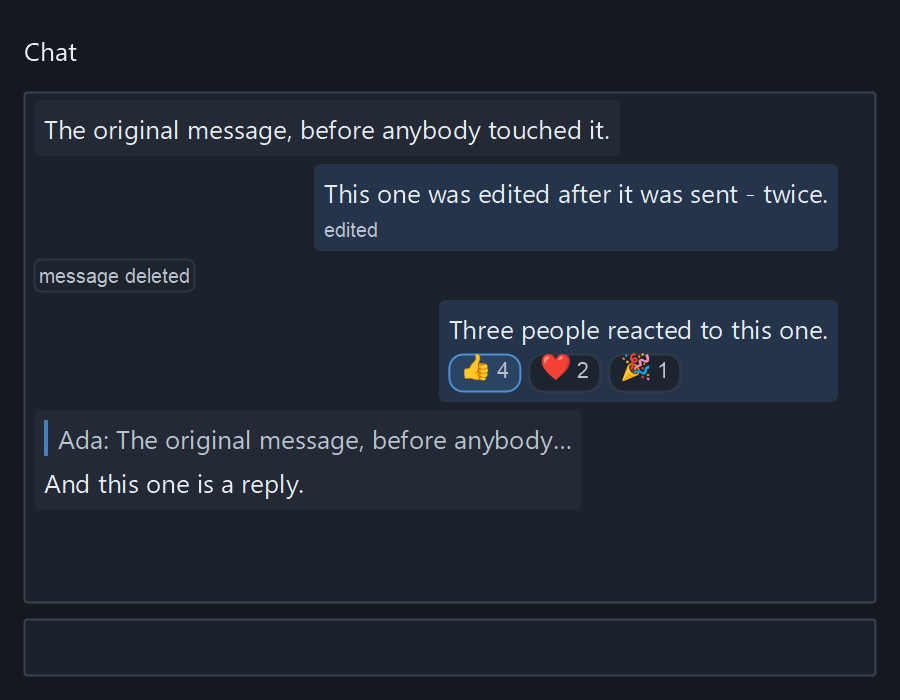
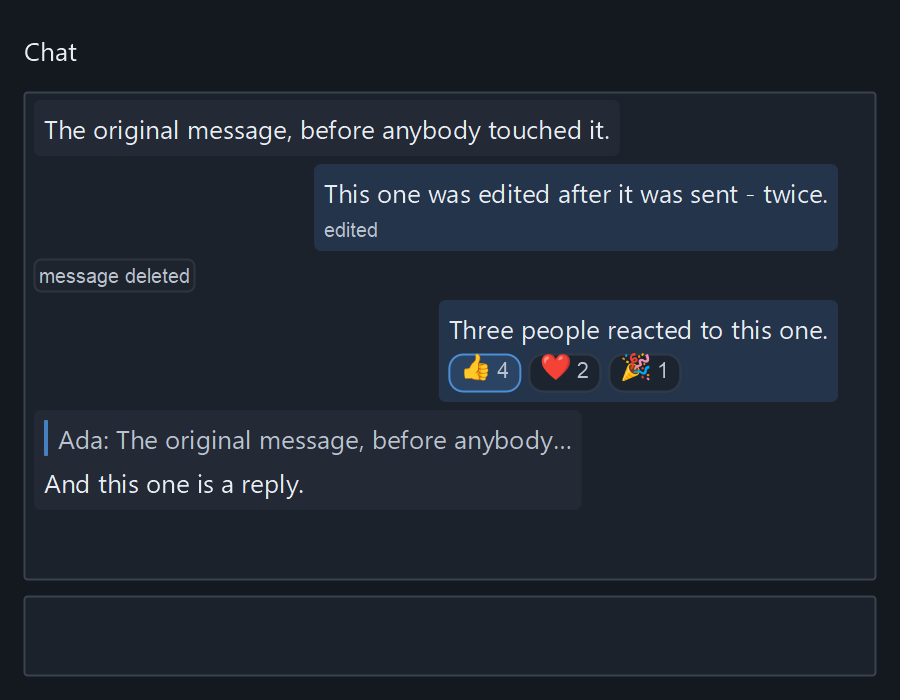
0.8.2: SW_TEXT_BOX measures the same twice, in rows it really has
- preferred_height read its floor (min_control_height) under whatever
  font the painter last selected: 70/75/80 px for one box at 2x. New
  minimum_height selects the body font first, as every control does.
- row_height answered the toy pitch (60 px at 2x) while shaped lines
  stack at the kit's line height (45 px). It now answers the new
  SW_SHAPING.line_height on the shaped path.
- build_shaped gives an empty piece (blank line, empty box) that line
  height too, so N plain lines are N rows.
- Four new SW_SHAPED_EDIT_ASSAULT tests on both paths; 335 -> 339, all
  passing. The six 2x thread evidence frames are rewritten: their empty
  composer now sits at the documented body-font floor (80 px).

Claude-Session: https://claude.ai/code/session_01QuAC6UMuFaysuxMAdN3fPW

diff --git a/docs/widgets/sw_text_box.html b/docs/widgets/sw_text_box.html
@@ -69,6 +69,7 @@ notes.set_text (<span <span class="keyword">class</span>="string">&quot;shorter&
             <h2>Shaped text (0.8.0)</h2>
             <p>When the window has shaped text enabled (<code>SW_WINDOW.enable_shaped_text</code>) and the box is not masked, the text is laid out through the shaping kit - one layout per line-break piece - and every character's edges come from the run's cluster map, through <code>SW_CLUSTER_MATH</code>. The caret after a character is its right edge in a left-to-right run and its <em>left</em> edge in a right-to-left one, so a caret walks leftward through Hebrew and a click inside it lands where the reader expects. Lines carry their own measured top, ascent and height.</p>
             <p>Where a left-to-right run meets a right-to-left one, two offsets stand at the same pixel. The rule is fixed: the boundary of the left-to-right character wins the click, and the other offset stays reachable by the arrow keys. Geometry is public for hosts and tests: <code>x_at_offset</code>, <code>line_at_offset</code>, <code>offset_at</code>, <code>line_count</code>, <code>is_rtl_at</code>, <code>is_shaped_layout</code>, <code>content_height</code>, <code>set_caret</code>, and the insets <code>Pad_x</code> / <code>Pad_y</code> that locate the text origin.</p>
+            <p>Measurement (0.8.2): <code>row_height</code> is the pitch the lines are really stacked at. On the shaped path that is the kit's <code>line_height</code>, one line of its primary face, which blank lines get too, so N plain lines are N rows. <code>minimum_height</code> is the floor, read under the body font, so <code>preferred_height</code> gives the same answer whatever was drawn before it.</p>
             <p>One deliberate change on both engines: a newline's caret now stands at the <em>start</em> of the line it opens, not the end of the line it closes.</p>
         </section>
 

diff --git a/CHANGELOG.md b/CHANGELOG.md
@@ -7,6 +7,44 @@ and this project adheres to [Semantic Versioning](https://semver.org/spec/v2.0.0
 
 ## [Unreleased] — Wave 3 in progress
 
+### Fixed (0.8.2 — A TEXT BOX MEASURES THE SAME TWICE, IN ROWS IT REALLY HAS)
+
+Found by simple_chat's composer tests, which failed on two measurements that
+0.8.0's shaped editing left inconsistent.
+
+- **`SW_TEXT_BOX.preferred_height` no longer depends on the last font
+  drawn.** Its floor, `SW_PAINTER.min_control_height`, measures the painter's
+  CURRENT font, and only a toy-path relayout happened to select the body font
+  first. At 2x the same box, text and width measured 70, 75 or 80 px depending
+  on what had been painted before it, so a box was arranged at one height and
+  measured at another. The new public `minimum_height` selects the body font
+  and reads the floor, as every other control selects its own font. One
+  visible result: an empty or one-line shaped text box now sits at the
+  documented body-font floor (README: text box 42 → 80 px at 1x → 2x). Before,
+  it often borrowed a smaller floor from whatever was drawn last. The six
+  2x thread evidence frames were rewritten for this reason: their composer is
+  80 px, not 57 px.
+- **`SW_TEXT_BOX.row_height` is the pitch the lines are really stacked at.**
+  It answered the theme's `scaled_line_height` on both paths, 60 px at 2x,
+  while the shaped path stacks lines at the kit's line height, 45 px. A host
+  capping a box at five rows therefore let it grow to about 6.7 lines. On the
+  shaped path it now answers the new `SW_SHAPING.line_height`: the facade's
+  `line_height`, one line of the kit's primary face at the body pixel size. The
+  toy path is unchanged.
+- **A blank line is a row.** The facade lays an EMPTY piece out at the bare
+  pixel size and leaves the primary-face height to its consumers (simple_shaping
+  R10 / FR-N01). So on the shaped path a blank line between paragraphs, or an
+  empty box, was 16 px against 21 px text lines at 1x.
+  `SW_TEXT_GEOMETRY.build_shaped` now gives an empty piece the kit's
+  `line_height`, so N plain lines (blank ones included) measure N rows. A line
+  in another script's face is still as tall as that face makes it: Hebrew
+  shaped in its own face measured 25 px against Latin's 21 px at 1x.
+- Four new tests in `SW_SHAPED_EDIT_ASSAULT`, run on both the toy and shaped
+  paths: the height is the same after four different fonts, and one to eight
+  lines are N rows (plus the inset, or the floor), with a five-row cap holding
+  five lines. Three of them failed before the fix (the toy rows already held).
+  Suite 335 to 339, all passing.
+
 ### Changed (0.8.1 — THE LABEL JOINS THE SHAPED PATH)
 
 Found by simple_narrate's Studio shell, whose first gate is "Hebrew in a

diff --git a/README.md b/README.md
@@ -16,7 +16,10 @@ Part of the [Simple Eiffel](https://github.com/simple-eiffel) ecosystem.
 
 ## Status
 
-✅ **ALL SIX WAVES SHIPPED, plus the Studio widgets (0.8.1)** — 114 classes (108 library + 5 devkit + 1 speechkit)
+✅ **ALL SIX WAVES SHIPPED, plus the Studio widgets (0.8.2)** — 114 classes (108 library + 5 devkit + 1 speechkit)
+- 0.8.2: `SW_TEXT_BOX` measures the same whatever was drawn last
+  (`minimum_height`), and `row_height` is the pitch its shaped lines are
+  really stacked at, blank lines included (`SW_SHAPING.line_height`)
 - 0.8.1: `SW_LABEL` joins the shaped path — a Hebrew label reads right-to-left
   and an emoji label is a picture whenever the window has shaped text on;
   `mono` labels keep cairo's toy path so machine values keep their monospace
@@ -609,7 +612,8 @@ already carries `text_scale`; `min_control_height` adds the inside inset above
 and below, and `min_control_width (s)` does the same either side of a measured
 advance. `SW_BUTTON`, `SW_TEXT_BOX`, `SW_CHECK_BOX` and `SW_NUMBER_BOX` clamp
 their natural height up to it — a larger explicit anchor still wins through
-`clamped_height`. Measured at 1x → 2x: button 38 → 75, text box 42 → 80, check
+`clamped_height` (`SW_TEXT_BOX.minimum_height` selects the body font first, so
+the answer never depends on what was drawn last). Measured at 1x → 2x: button 38 → 75, text box 42 → 80, check
 box 38 → 75, number box 38 → 75, label 24 → 47 px.
 
 `SW_LABEL.line_step` is measured too (`text_extent` + the theme's leading), so a
